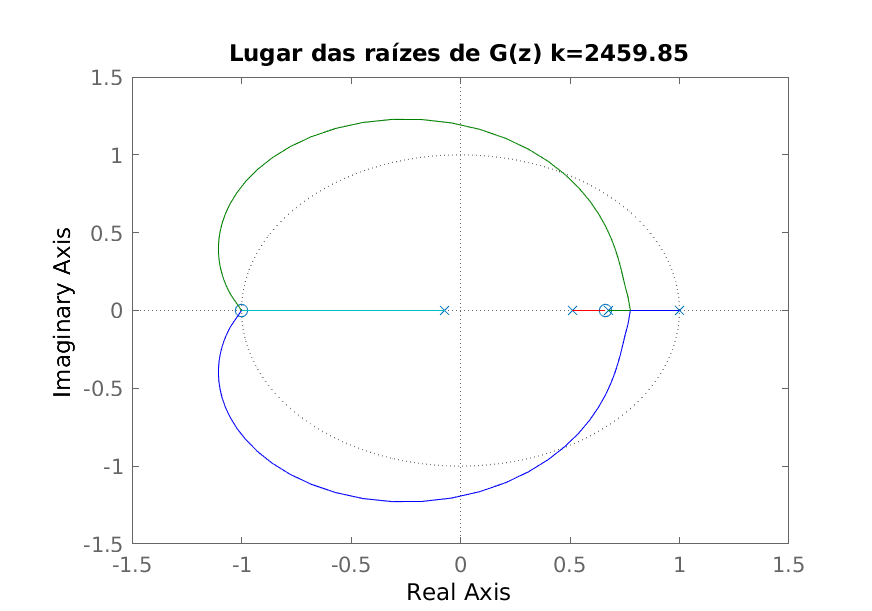
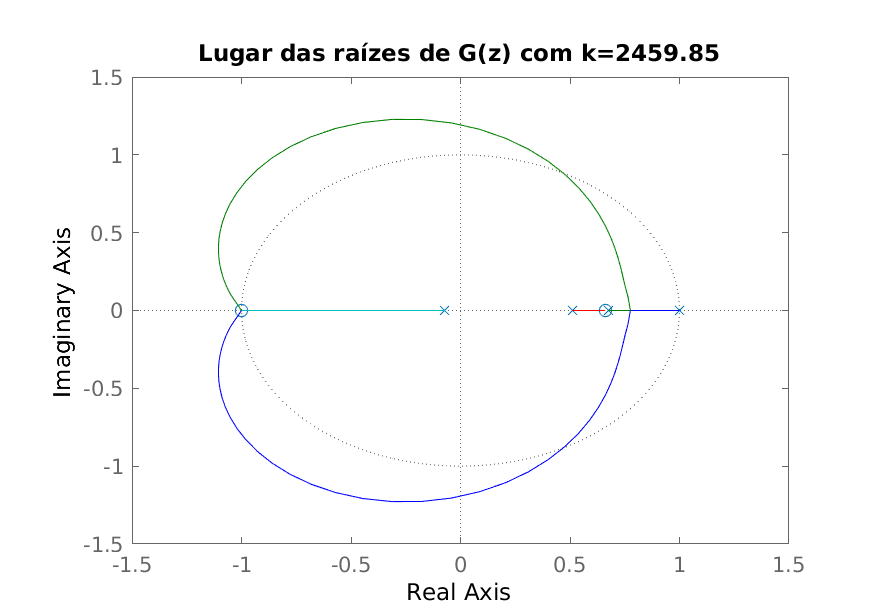
Adicionadas imagens com zoom.

Changed region(s): [[0.2167, 0.0622, 0.836, 0.1244]]

diff --git a/MATLAB/VersaoJura.m b/MATLAB/VersaoJura.m
@@ -37,6 +37,8 @@ set(gcf,'position',[x0,y0,width,height])
 step(gmf)
 title('Resposta ao degrau de G(s)')
 set(gca,'FontSize',fontsize)
+grid on
+grid minor
 saveas(gcf,'f3-step-g.png')
 
 figure(4)
@@ -56,14 +58,16 @@ GmfZ = Gz/(1+Gz)
 figure(5)
 set(gcf,'position',[x0,y0,width,height])
 step(GmfZ)
-title('Resposta ao degrau de G(z) k=2459.85')
+title('Resposta ao degrau de G(z) com k=2459.85')
 set(gca,'FontSize',fontsize)
+grid on
+grid minor
 saveas(gcf,'f5-step-gz-k2459.png')
 
 figure(6)
 set(gcf,'position',[x0,y0,width,height])
 rlocus(Gz)
-title('Lugar das raízes de G(z) k=2459.85')
+title('Lugar das raízes de G(z) com k=2459.85')
 set(gca,'FontSize',fontsize)
 saveas(gcf,'f6-rlocus-gz-k2459.png')
 
@@ -75,6 +79,8 @@ set(gcf,'position',[x0,y0,width,height])
 step(gmf1)
 title('Resposta ao degrau de G(s) com k=1050')
 set(gca,'FontSize',fontsize)
+grid on
+grid minor
 saveas(gcf,'f7-step-gs-k1050.png')
 
 Gz1 = c2d(G1,T,'tustin');
@@ -85,6 +91,8 @@ set(gcf,'position',[x0,y0,width,height])
 step(GmfZ1)
 title('Resposta ao degrau de G(z) com k=1050')
 set(gca,'FontSize',fontsize)
+grid on
+grid minor
 saveas(gcf,'f8-step-gz-k1050.png')
 
 
